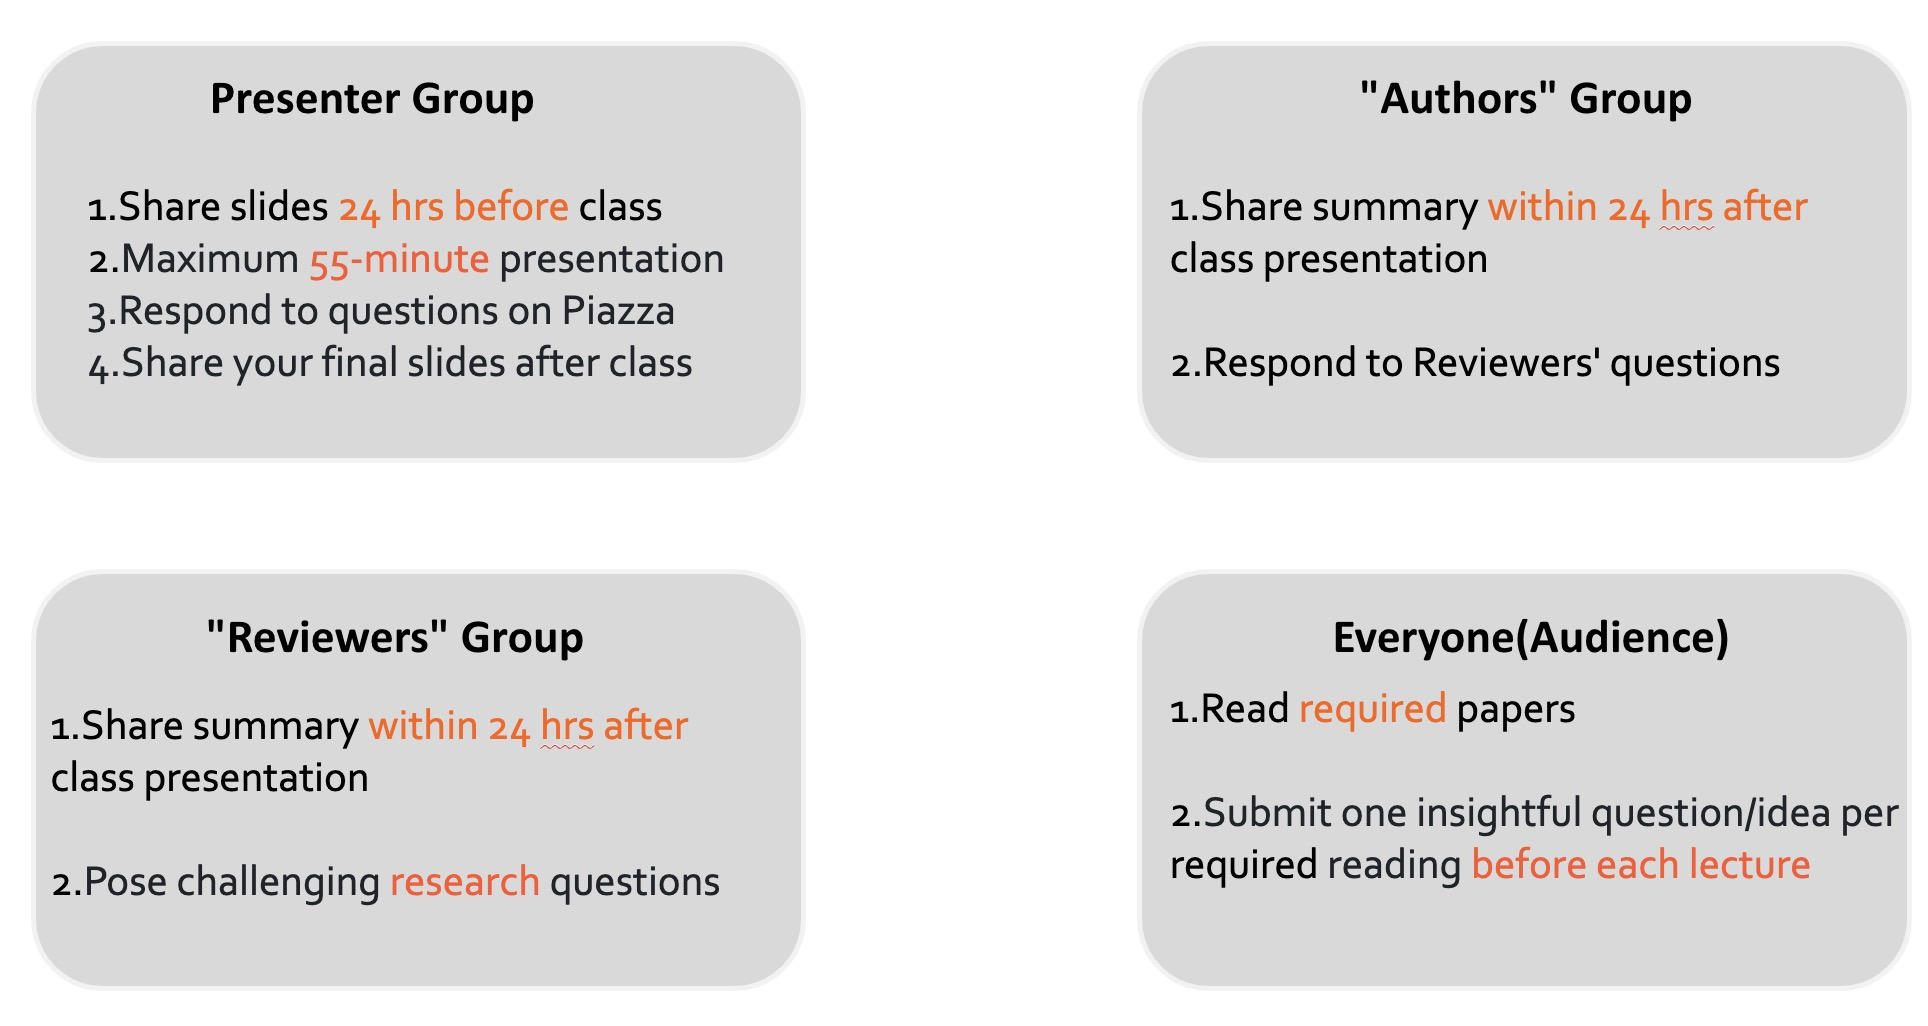
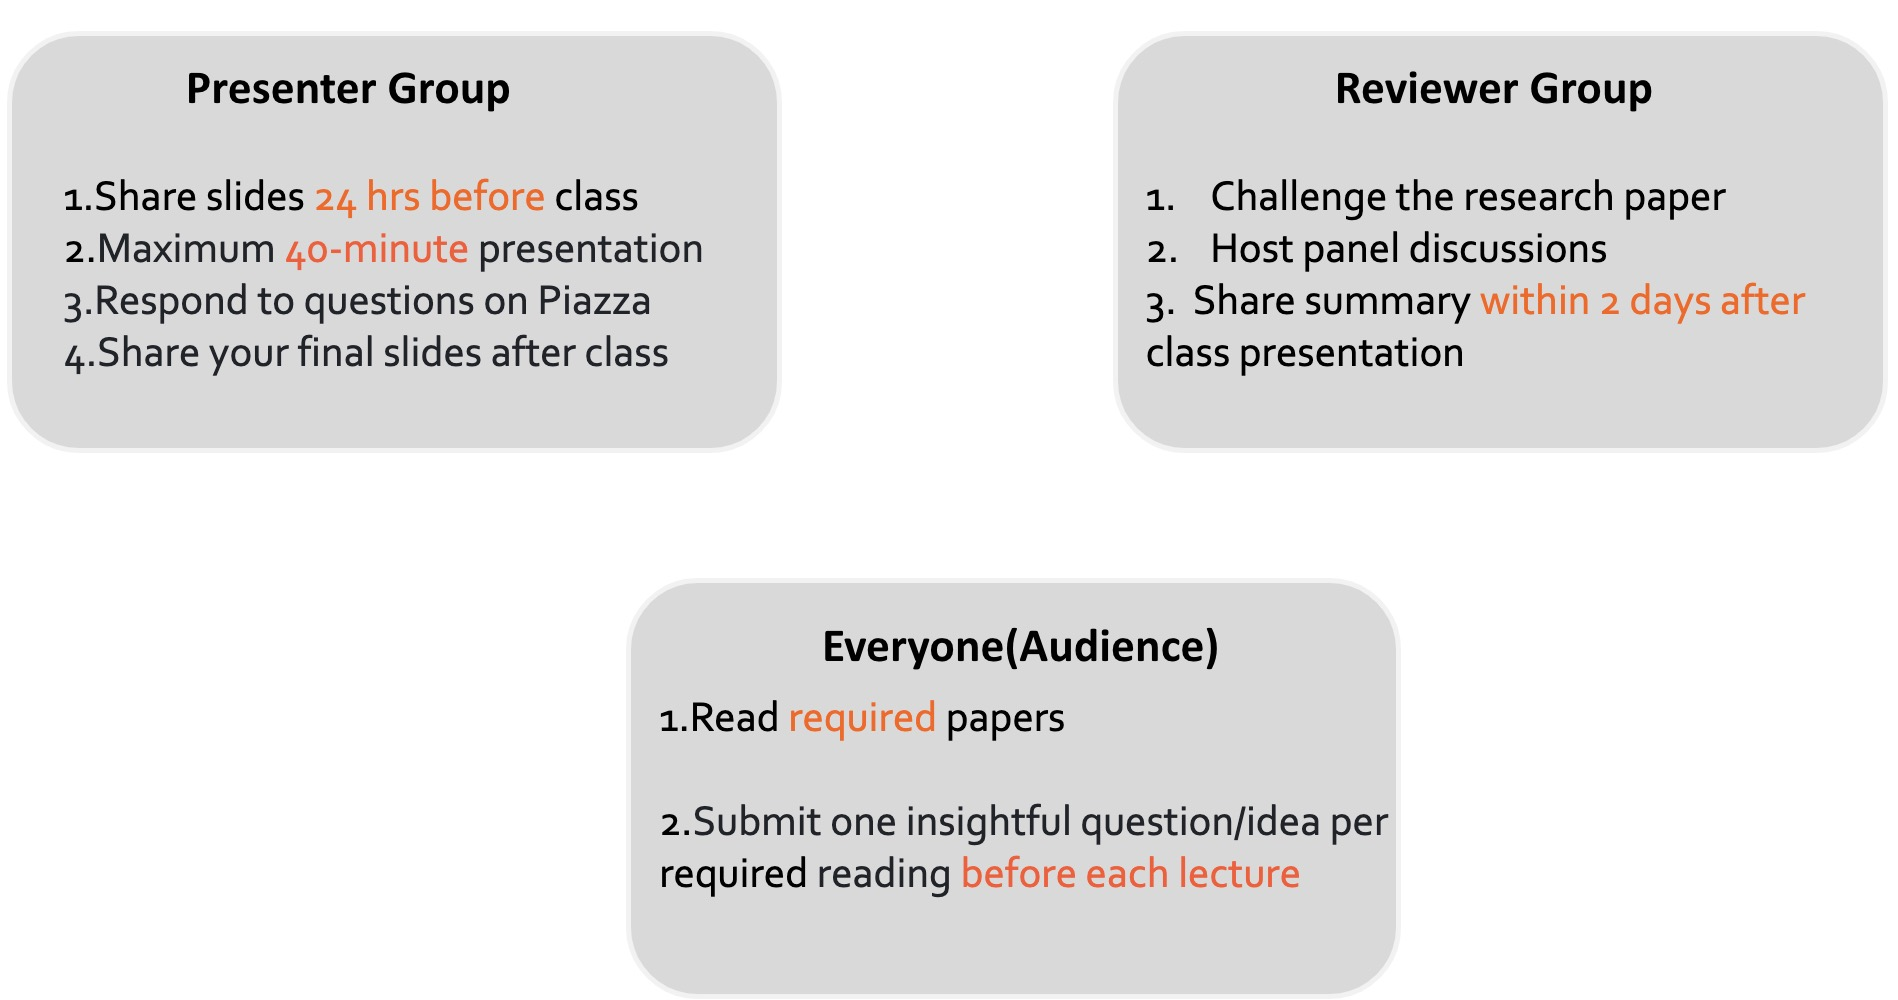
minor in-class

diff --git a/README.md b/README.md
@@ -50,7 +50,7 @@
 ## Tentative Schedule and Reading List
 *Note: (1) This is an evolving list; (2) For each topic, there would be 2-3 "required" papers that presenter should include in their in-class presentation.*
 
-| Date    | Readings                                                                                                             | Pilot-Presenter                               | Copilot-Authors                            | Copilot-Reviewer                                   |
+| Date    | Readings                                                                                                             | Pilot-Presenter                               | Copilot-Reviewers                           | Notes                                   |
 | ------- | -------------------------------------------------------------------------------------------------------------------- | --------------------------------------- | ------------------------------------- | ------------------------------------------- |
 |         |  **Course Introduction** |              |	|
 | Jan 21  | (Required) Section 1 of [How far are we from AGI?](https://openreview.net/pdf?id=H2ZKqfNd0U) <br> (Required) [How to Write a Paper](https://cs.stanford.edu/people/widom/paper-writing.html)<br> (Required) [Language Agents: Foundations, Prospects, and Risks](https://language-agent-tutorial.github.io/slides/I-Introduction.pdf) <br>[How to Give a Bad Talk](http://www.cs.berkeley.edu/~pattrsn/talks/BadTalk.pdf) | [Jiaxuan]()        |                                       |                                           |
@@ -108,16 +108,14 @@ Before each lecture, all students must [submit here(with your UIUC email address
 ### In-class: Presentation & Discussion
 In each class after **Overview of LLM Agents** taught by Prof.You, the students are expected to conduct the presentation and discussion. 
 
-This discussion will involve three distinct roles played by different **student groups**, simulating an interactive and dynamic scholarly exchange. Each group will be assigned to the following three roles once:
+This discussion will involve two distinct roles played by different **student groups**, simulating an interactive and dynamic scholarly exchange. Each group will be assigned to the following two roles once:
 1. **The Pilot Presenter:**
    - **Group Assignment:** Prepare slides for papers marked as "Required" and deliver a presentation on a specific topic.
    - **Responsibility:** Present the assigned topic and address audience questions during the presentation.
 
-2. **The Co-pilot Authors:**
-   - **Group Assignment:** Write a summary of the paper and assume the role of the paper's authors.
-   - **Responsibility:** As authors, you are expected to defend your paper against critiques, respond to questions, and discuss potential improvements or future extensions of your research, similar to drafting a rebuttal in the peer-review process.
 
-3. **The Co-pilot Reviewers:**
+
+2. **The Co-pilot Reviewers:**
    - **Group Assignment:** Write a summary of the paper and take on the role of reviewers for one assigned slot.
    - **Responsibility:** Critically evaluate the paper by posing challenging questions, identifying weaknesses, and suggesting areas for improvement. Your role is to provide constructive feedback and engage in a simulated peer review discussion.
 
@@ -139,7 +137,7 @@ Submission of slides:
 - **Deadlines:** Slides for the presentation must be submitted to the instructor team via Canvas (in \*.pptx format) at least 24 hours before the scheduled class.
 - **Format:** We recommend [this template]()(To add).
 
-#### Guidelines for the Co-pilot Authors and Reviewers
+#### Guidelines for the Co-pilot Reviewers
 
 Each group will be assigned **roughly two paper summaries** in different topics: one in the Co-pilot * Authors* role and the other in the *Reviewer* role. Although these two roles are different in in-class discussions, the summaries are nearly the same.
 
@@ -153,7 +151,7 @@ Each summary should address the following questions in **2–3 pages** with suff
 
 Submission of Paper Summary:
 - **Deadline:** Summaries must be uploaded to Canvas (by one member in the group) within 24 hours after the presentation of the corresponding paper. **Late submissions will not be counted.**
-- **Format:** Use [this template](Summaries/template.pdf) for your summary. Use Google Docs to enable in-line comments and suggestions.
+- **Format:** We provide [this template](Summaries/template.pdf) for your reference. We suggest that you can use Google Docs to enable in-line comments and suggestions.
 
 Best Practices:
 - Allocate enough time to read and understand the assigned paper.
@@ -212,7 +210,7 @@ We summarize the deadlines of activities of pre-class, in-class and project here
 | **Project Proposal**                | Every group        | Feb 10                            |  Submit to Canvas.                                          |
 | **Pre-class Proposal**             | Everyone           |  before the class         |   Submit an insightful question/idea [here(only UIUC email address)](https://docs.google.com/forms/d/e/1FAIpQLSdZV1u6A7WCVBihXsJI5E2AXxwi9IRFgiBJIjNVZaJ1OeBX5g/viewform?usp=header) for each required paper.                      |
 | **In-class Discussion**             | Presenter          | 24 hours before the class         |   Submit slides to Canvas                                          |
-|                                     | "Authors" & "Reviewers" | Within 24 hours after the class  | Submit paper summaries to Canvas                                            |
+|                                     |  "Reviewers" | Within 24 hours after the class  | Submit paper summaries to Canvas                                            |
 | **Midterm Presentation**            | Every group        | March 25/27                       |                                            |
 | **Survey Report Submission (Draft)**| Every group        | April 16                         |   Submit to both Canvas and OpenReview                                                                      |
 | **Review and Response**             | Every group        | April 23 for review, and April 30 for response                        |  April 16-23 for review,  April 24-30   for response                                      |
